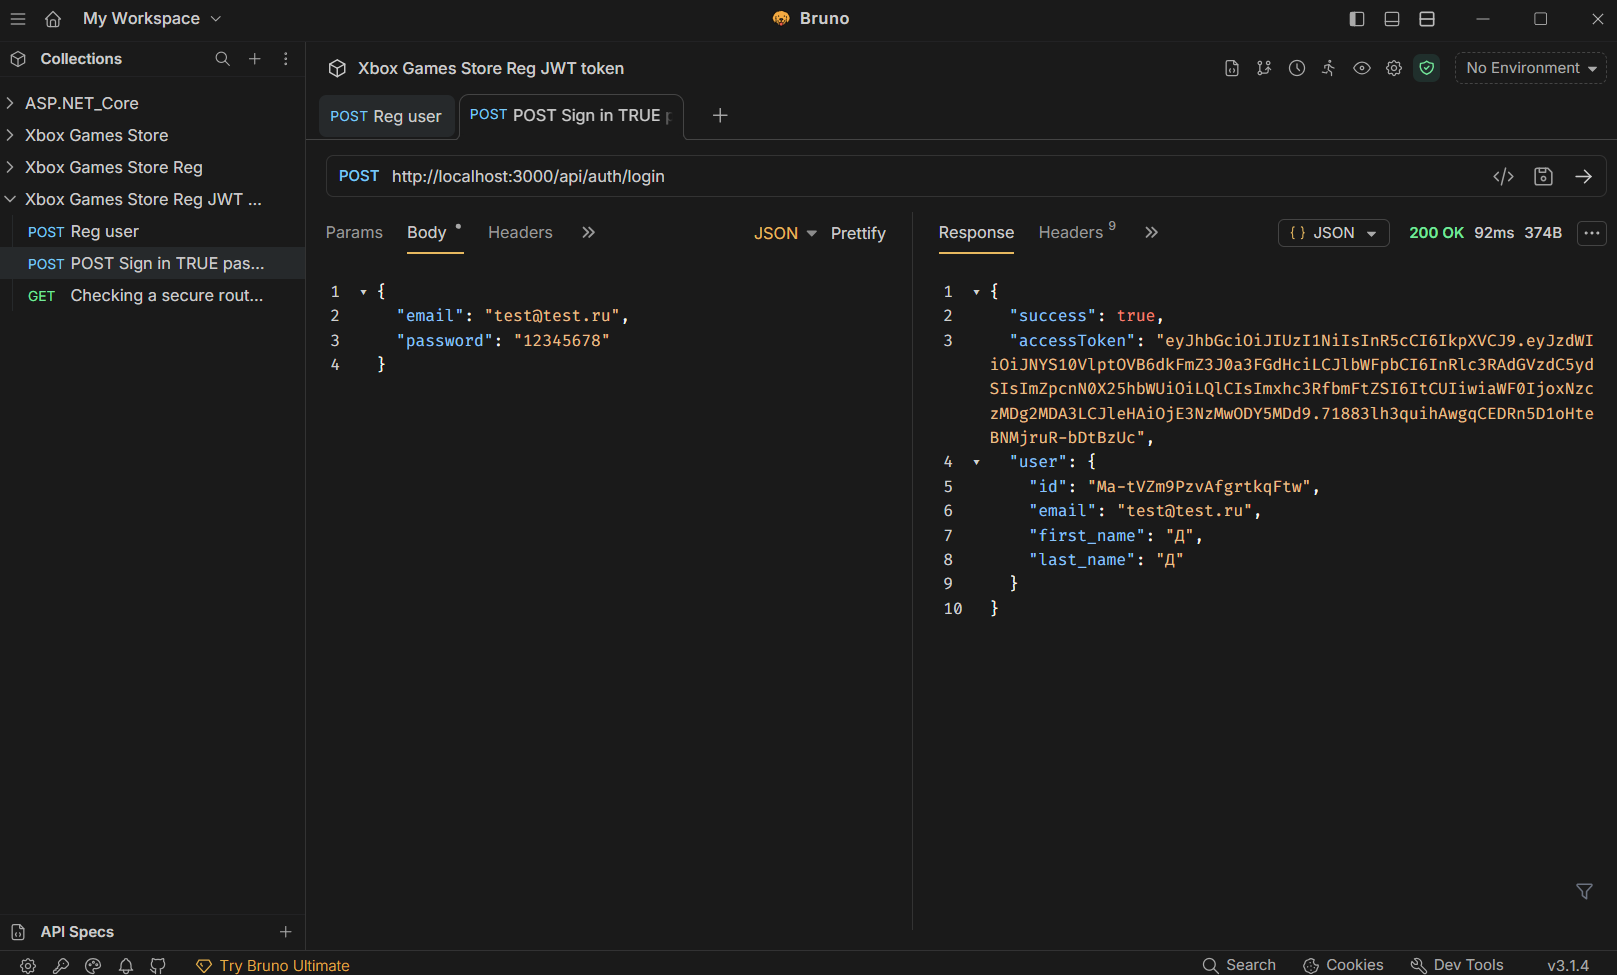
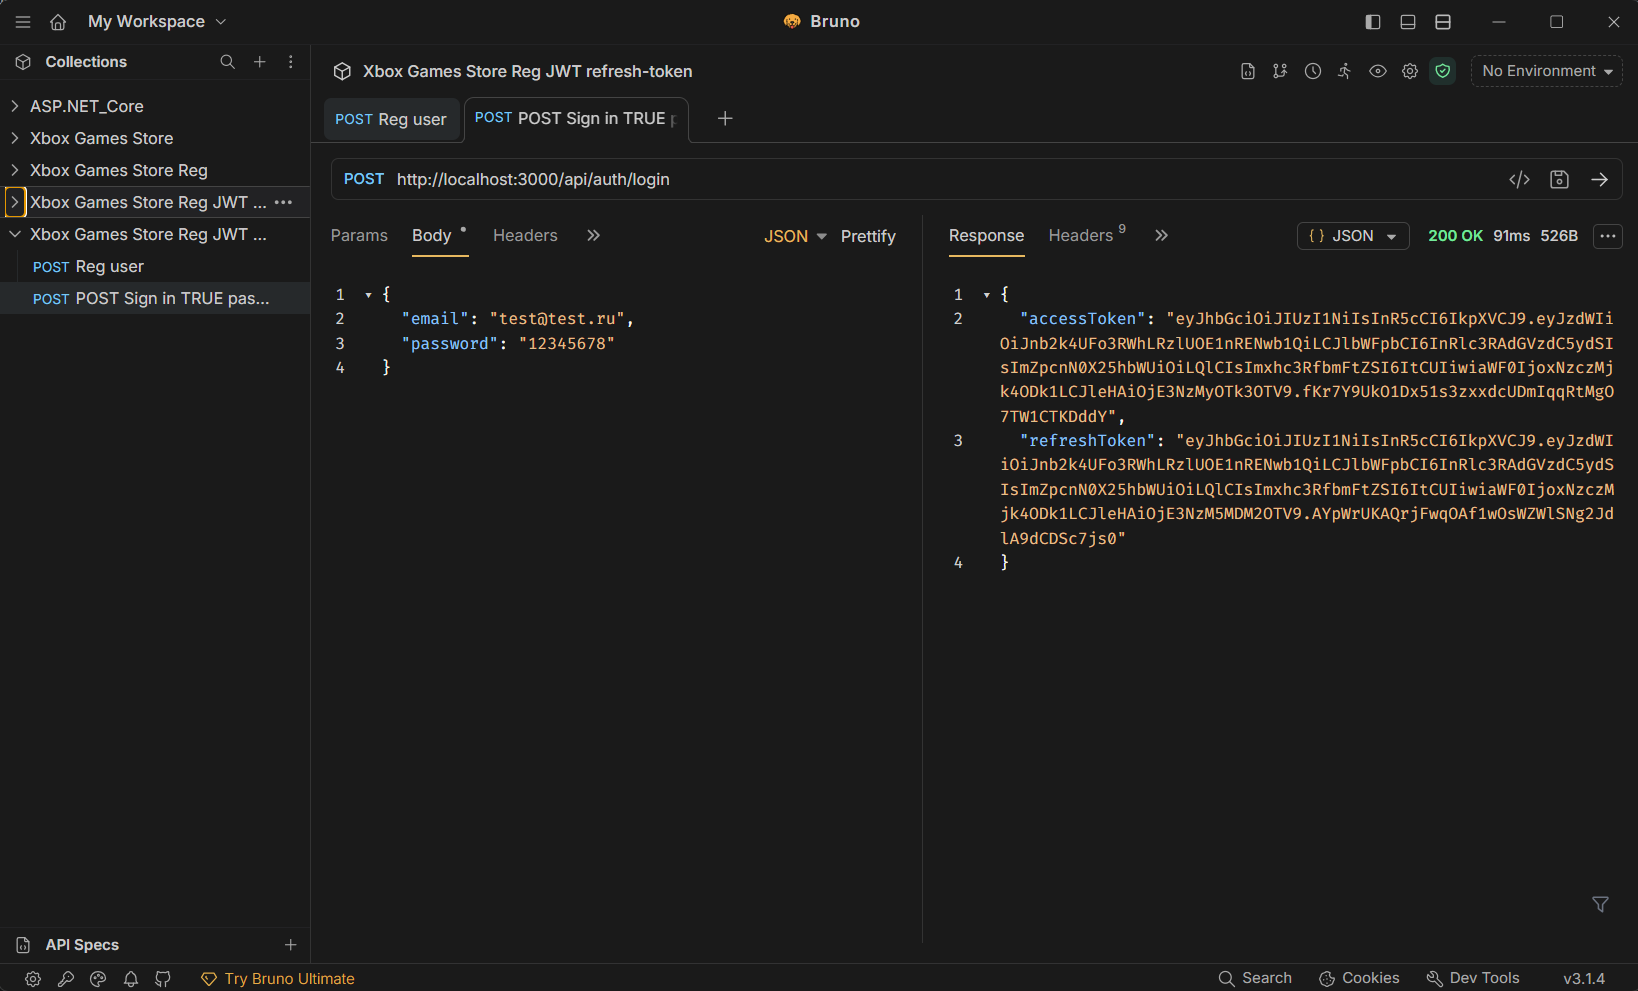
add Bruno and update README.md

diff --git a/book9/README.md b/book9/README.md
@@ -1,10 +1,10 @@
-# Практическое задание №8: JSON Web Token
+# Практическое задание №8: JSON Refresh-tokens
 
 ## 1. Регистрация пользователя
-![POST_REG_USER](/book8/assets.md/POST%20Reg%20user.png)
+![POST_REG_USER](/book9/assets.md/POST%20Reg%20user.png)
 
-## 2. Вход с верным паролем и token
-![POST_SIGN_IN_TRUE_](/book8/assets.md/POST%20Sign%20in%20TRUE%20password.png)
+## 2. Вход с верным паролем (tokens)
+![POST_SIGN_IN_TRUE_](/book9/assets.md/POST%20Sign%20in%20TRUE%20password.png)
 
-## 3. Защищенный маршрут /api/auth/me 
-![POST_CHECK_](/book8/assets.md/GET%20checking%20a%20secure%20route%20-me.png)
+## 3. Обновление token 
+![POST_CHECK_](/book9/assets.md/POST%20refresh%20%20refresh-Token.png)
